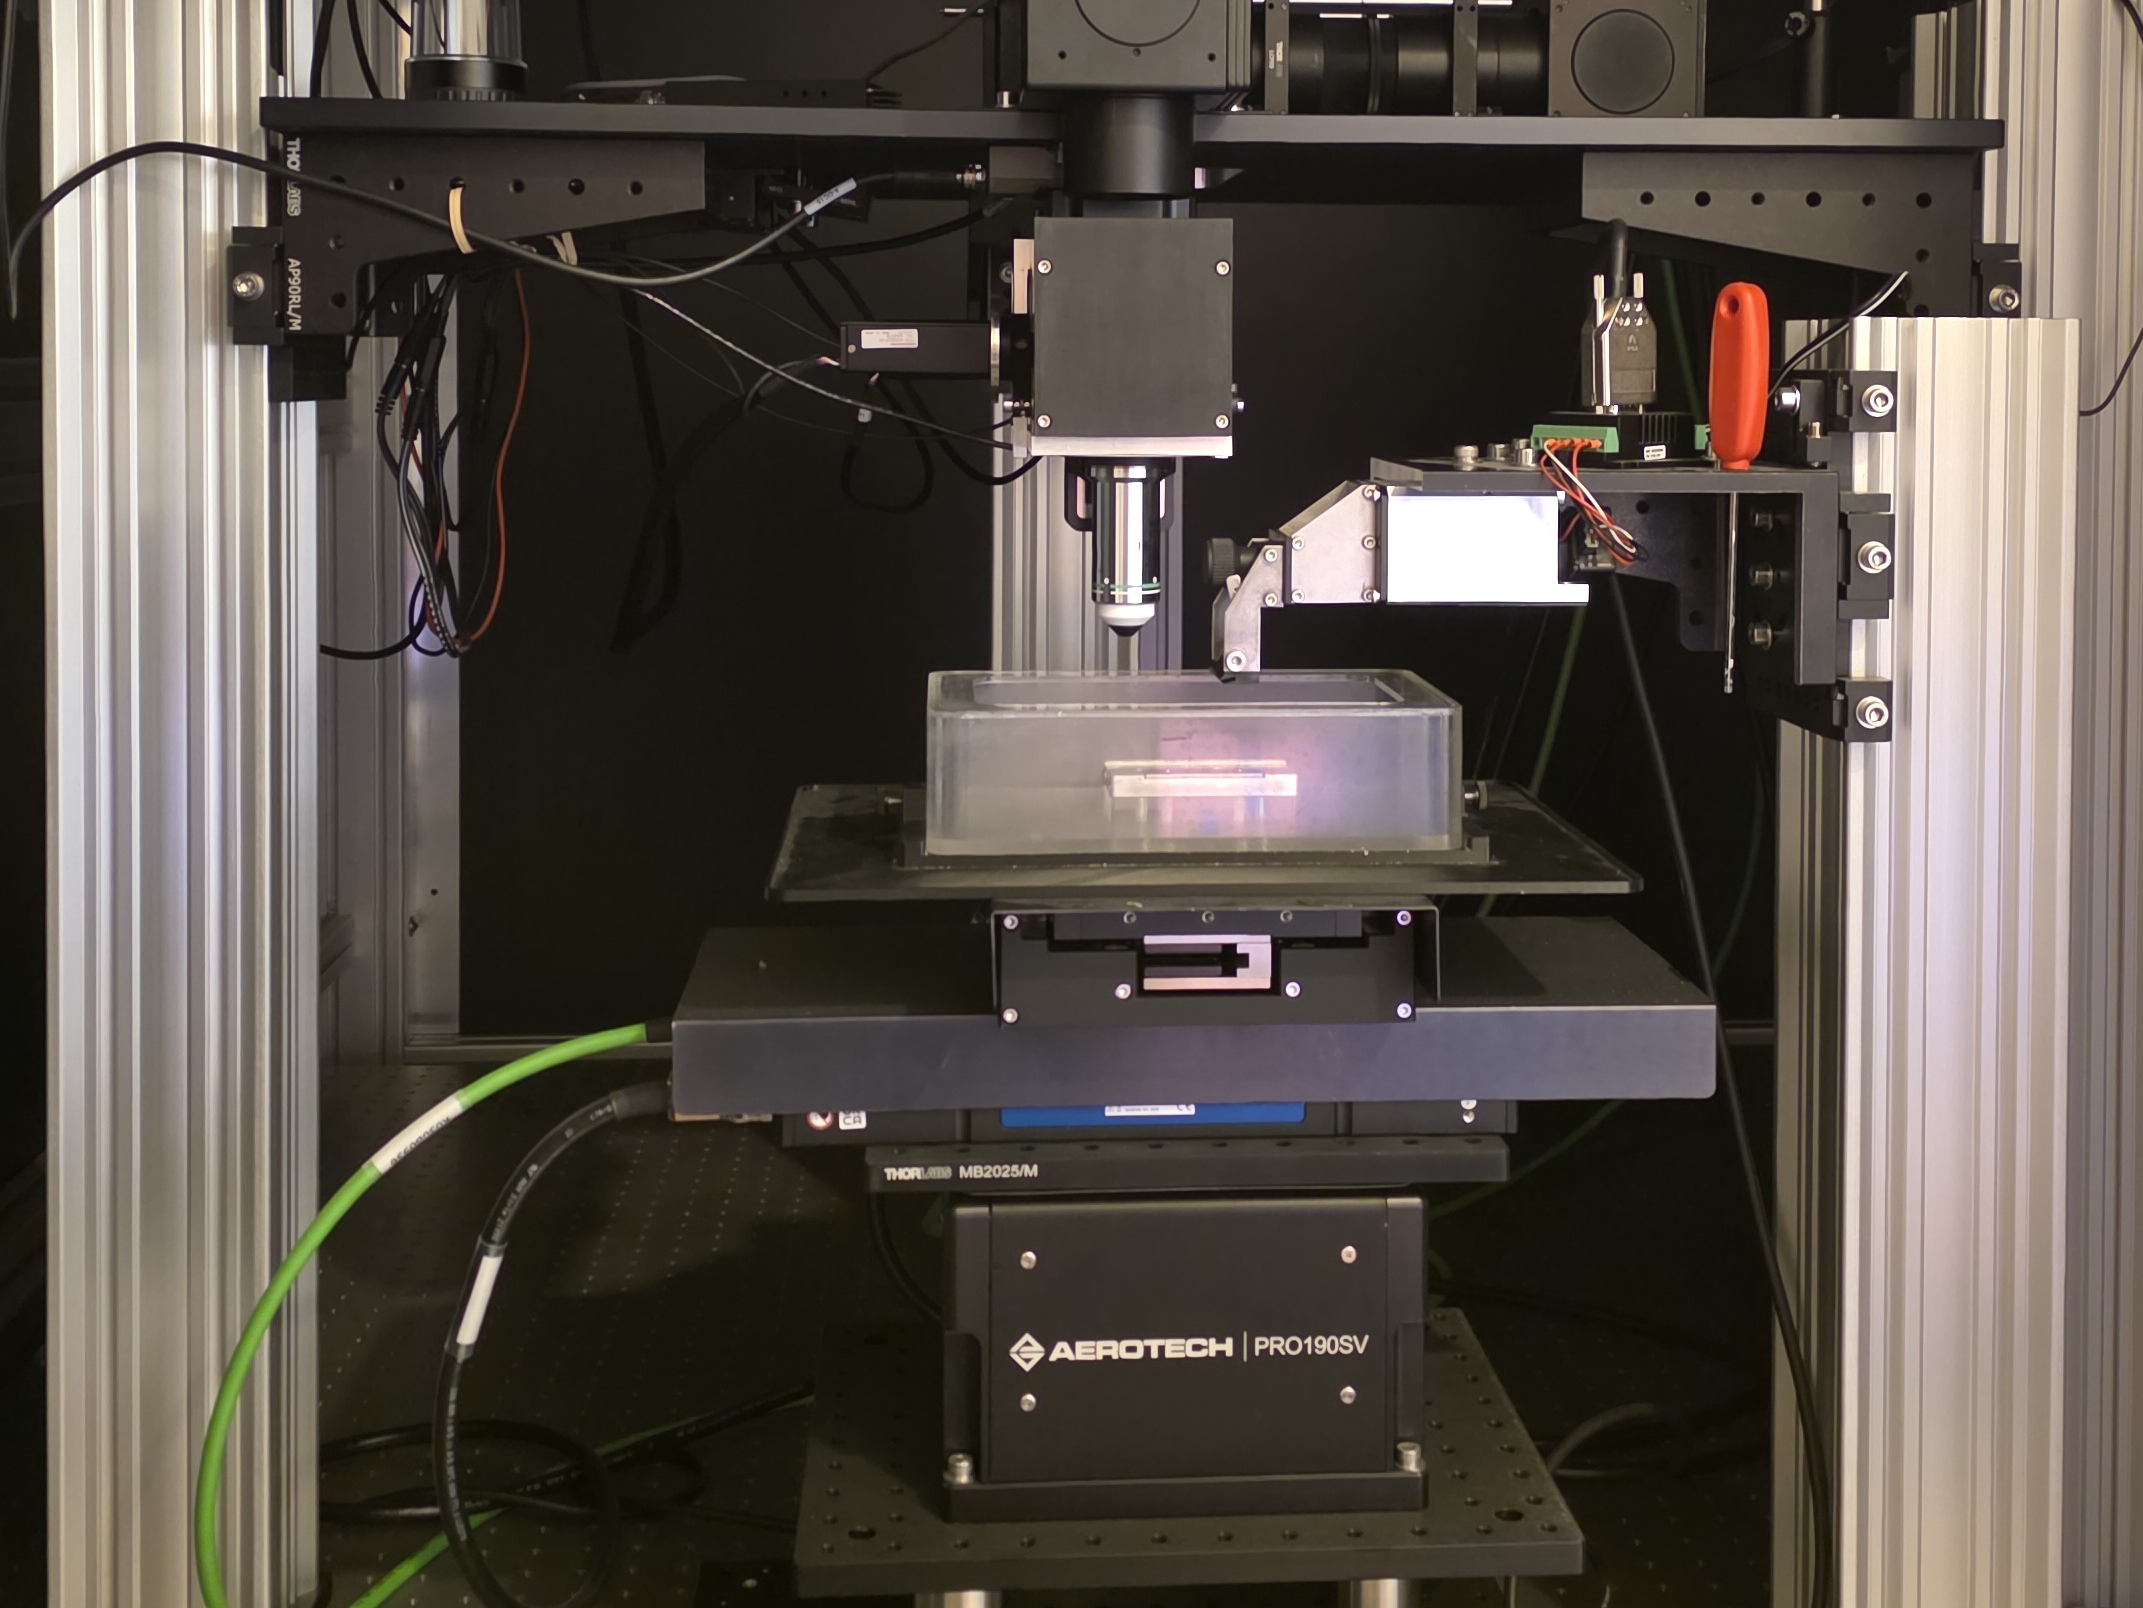
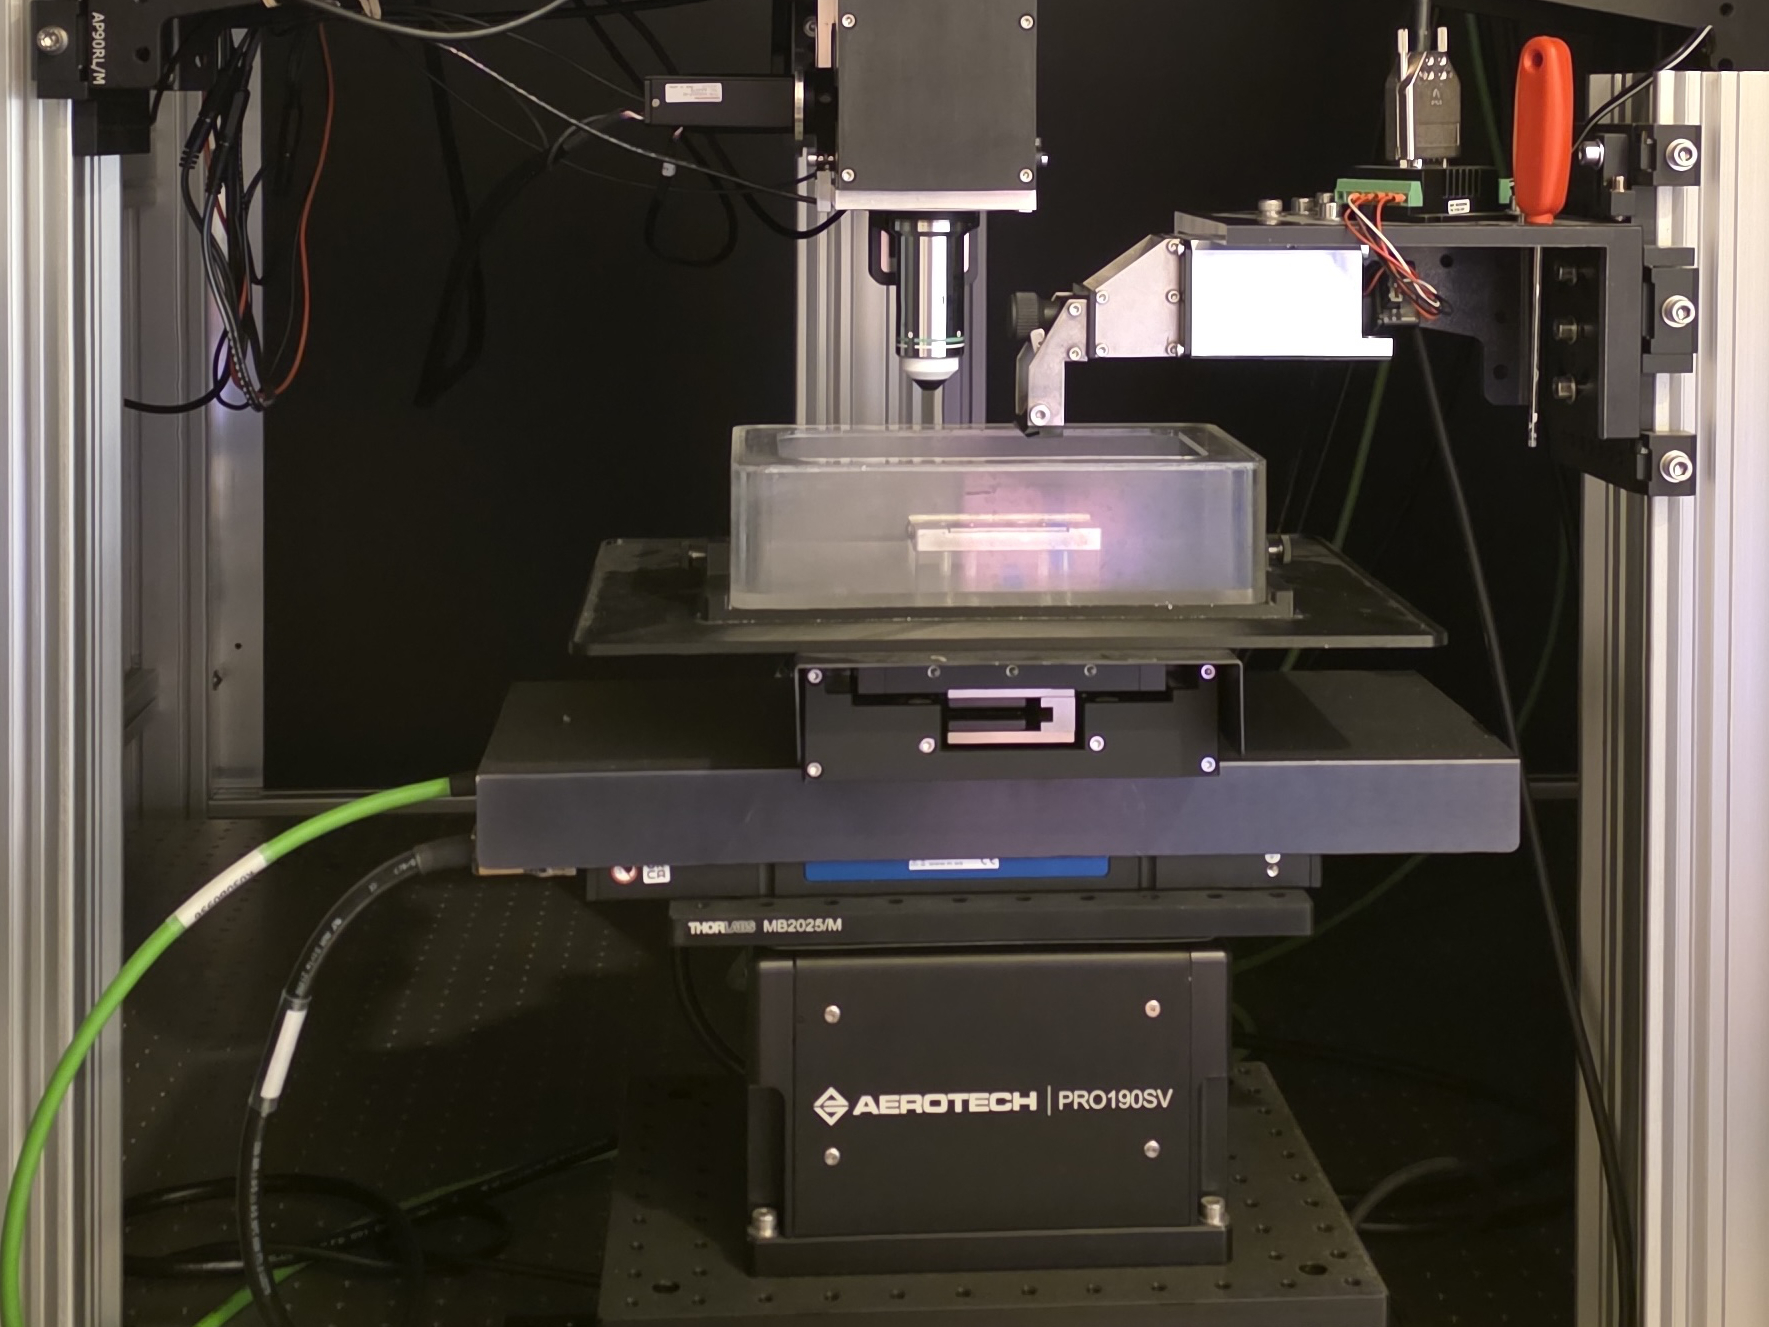
updates

diff --git a/whole_brain_platform.html b/whole_brain_platform.html
@@ -6,7 +6,9 @@ header_image: /assets/images/home/services_header.jpg
 ---
 
 <p>
-We offer automated, high-throughput, serial section 2-photon imaging of whole organs and lightsheet microscopy.
+We offer whole-brain imaging via our <a href="https://mesospim.org">MesoSPIM</a> lightsheet and BrainSaw serial-section 2-photon microscopes.
+The MesoSPIM is most suitable for rapid imaging of individual samples that have undergone clearing and fluorescent labelling.
+<a href="{{ '/brainsaw/' | relative_url }}">BrainSaw</a> is most suitable for imaging conventionally prepared samples with intrinsic fluorescence, and is higher throughput as up to 8 brains can imaged in one run.
 </p>
 
 <h2>Equipment</h2>
@@ -15,8 +17,8 @@ We offer automated, high-throughput, serial section 2-photon imaging of whole or
   <img src="{{ '/assets/images/equipment/OG_System_Photo.jpg' | relative_url }}" alt="BrainSaw">
   <div class="feature-row__body">
     <h3>BrainSaw: automated serial-sectioning</h3>
-    <p>We have three "<a href="{{ '/brainsaw/' | relative_url }}">BrainSaw</a>" automated serial section microscopes. These microscopes alternate between slicing the sample and tile-scanning the exposed surface of the block. Samples simply need conventional fixation and agar embedding. The approach is generally not compatible with antibody labelling, but slices can be retrieved for further processing.</p>
-    <p>Each microscope can accommodate up to 6 brains at once and imaging is usually complete in under 24 hours. Applications include mapping electrode tracks, tracing bulk projections, and automated cell counting. The systems have up to four channels and handle up to three fluorophores simultaneously. Users typically run their own samples. Several training sessions are needed due to the destructive nature of the technique.</p>
+    <p>We have three <a href="{{ '/brainsaw/' | relative_url }}">BrainSaw</a> automated serial section microscopes. These microscopes alternate between slicing the sample and tile-scanning the exposed surface of the block. Samples simply need conventional fixation and agar embedding. The approach is generally not compatible with antibody labelling, but slices can be retrieved for further processing.</p>
+    <p>Applications include mapping electrode tracks, tracing bulk projections, and automated cell counting. The systems have up to four channels and handle up to three fluorophores simultaneously.</p>
     <a class="btn" href="{{ '/serialSectionSWC/' | relative_url }}">Getting started</a>
   </div>
 </div>
@@ -25,7 +27,7 @@ We offer automated, high-throughput, serial section 2-photon imaging of whole or
   <img src="{{ '/assets/images/equipment/mesoSPIM_swc_1_lowres.jpg' | relative_url }}" alt="MesoSPIM">
   <div class="feature-row__body">
     <h3>MesoSPIM: whole-brain lightsheet imaging</h3>
-    <p>The <a href="https://mesospim.org">MesoSPIM</a> is a macroscope-based lightsheet microscope which provides uniform 3D resolution of cleared organs such as mouse brains and kidneys. At lower resolutions no tile scanning is required to image a mouse brain, making the microscope very fast. The system is compatible with any clearing technique. Users are responsible for clearing their own samples, but we can provide protocols and advice. The system is best suited to long term projects rather than one-off imaging sessions. Users must be trained by the AMF to have access to the microscope.</p>
+    <p>The <a href="https://mesospim.org">MesoSPIM</a> is a macroscope-based lightsheet microscope which provides uniform 3D resolution of cleared organs such as mouse brains and kidneys. At lower resolutions no tile scanning is required to image a mouse brain, making the microscope very fast. The system is compatible with any clearing technique. Users are responsible for clearing their own samples, but we can provide protocols and advice. The system is best suited to long term projects rather than one-off imaging sessions.</p>
     <a class="btn" href="https://github.com/SWC-Advanced-Microscopy/swc-advanced-microscopy.github.io/wiki/MesoSPIM-v5">AMF system details</a>
   </div>
 </div>
